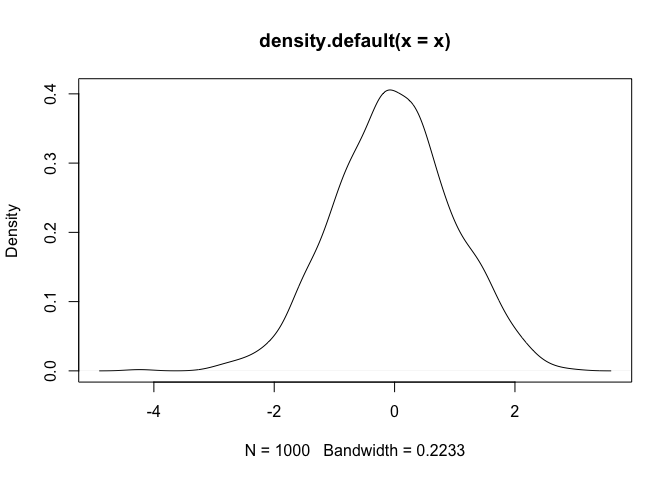
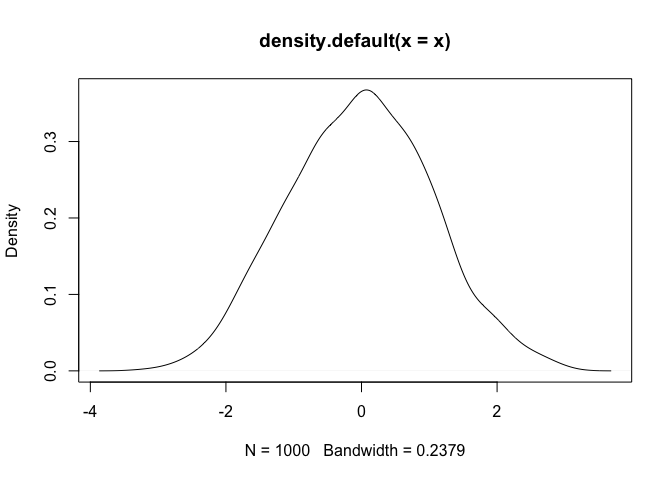
more latex

diff --git a/rmarkdown-rocks.md b/rmarkdown-rocks.md
@@ -27,7 +27,7 @@ Including Plots
 
 You can also embed plots, for example:
 
-    ## [1] -0.3824962  1.1152155  0.3458820  1.7150791  0.4888917  0.4874095
+    ## [1] -0.69008660 -1.08938777  1.24323719 -0.08871275  0.08948951 -0.49290521
 
 ![](rmarkdown-rocks_files/figure-markdown_github/density-1.png)
 
@@ -37,3 +37,5 @@ Test latex
 ----------
 
 -   Let's try *χ*=𝒫 k
+
+*a* = *b*
